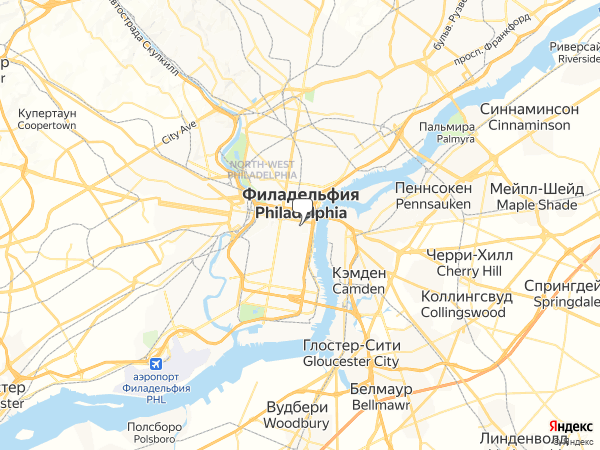
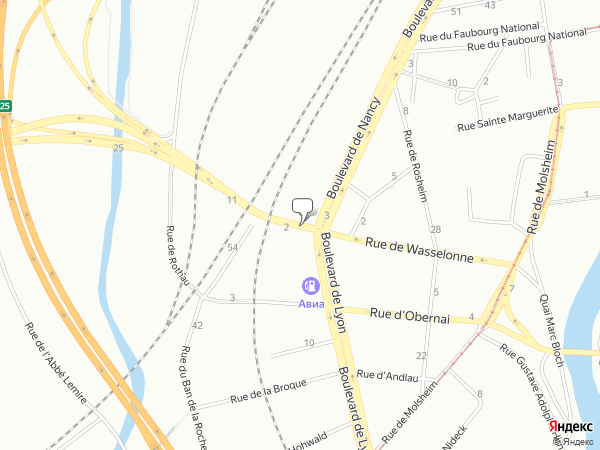
add Session.get() + scale map

diff --git a/main_map.py b/main_map.py
@@ -6,6 +6,7 @@ from PyQt6.QtCore import Qt
 from PyQt6.QtGui import QPixmap
 from geocoder import geocoder, map_object
 
+
 class MapShow(QMainWindow):
     def __init__(self):
         super().__init__()
@@ -13,13 +14,36 @@ class MapShow(QMainWindow):
         self.initUI()
 
     def initUI(self):
+        self.zoom = 5
         self.searchbtn.clicked.connect(self.run)
 
     def run(self):
-        adr, coords, spn = geocoder(self.address.text())
+        self.update_map()
+
+    def keyPressEvent(self, event):
+        if event.key() == Qt.Key.Key_PageUp and self.zoom < 20:
+            self.zoom += 1
+            self.update_map()
+        if event.key() == Qt.Key.Key_PageDown and self.zoom > 1:
+            self.zoom -= 1
+            self.update_map()
+
+    def update_map(self):
+        self.adr, self.coords, self.spn = geocoder(self.address.text())
         self.file_map = 'map.png'
+
+        api_address = "https://static-maps.yandex.ru/v1?"
+        params = {
+            "ll": ','.join(self.coords.split()),
+            "z": f"{self.zoom}",
+            "pt": ','.join(self.coords.split()),
+            'apikey': YOU_APIKEY
+        }
+        sessia = requests.Session()
+        sessia_map = sessia.get(api_address, params=params)
+
         with open(self.file_map, "wb") as f:
-            f.write(map_object(coords, spn))
+            f.write(sessia_map.content)
 
         self.image = QPixmap(self.file_map)
         self.label.setPixmap(self.image)

diff --git a/geocoder.py b/geocoder.py
@@ -5,7 +5,7 @@ import sys
 def geocoder(address):
     api_server = "https://geocode-maps.yandex.ru/1.x/?"
     params = {
-        "apikey": "8013b162-6b42-4997-9691-77b7074026e0",
+        "apikey": YOU_APIKEY,
         "geocode": address,
         "format": "json"
     }
@@ -31,7 +31,7 @@ def map_object(coords, spn):
         'll': ','.join(coords.split()),
         'spn': spn,
         'pt': ','.join(coords.split()),
-        'apikey': 'c37b0772-bdf0-4f65-a7e4-e8e975f896be'
+        'apikey': YOU_APIKEY
     }
     request_map = requests.get(api_address, params=params)
     response = request_map.content
